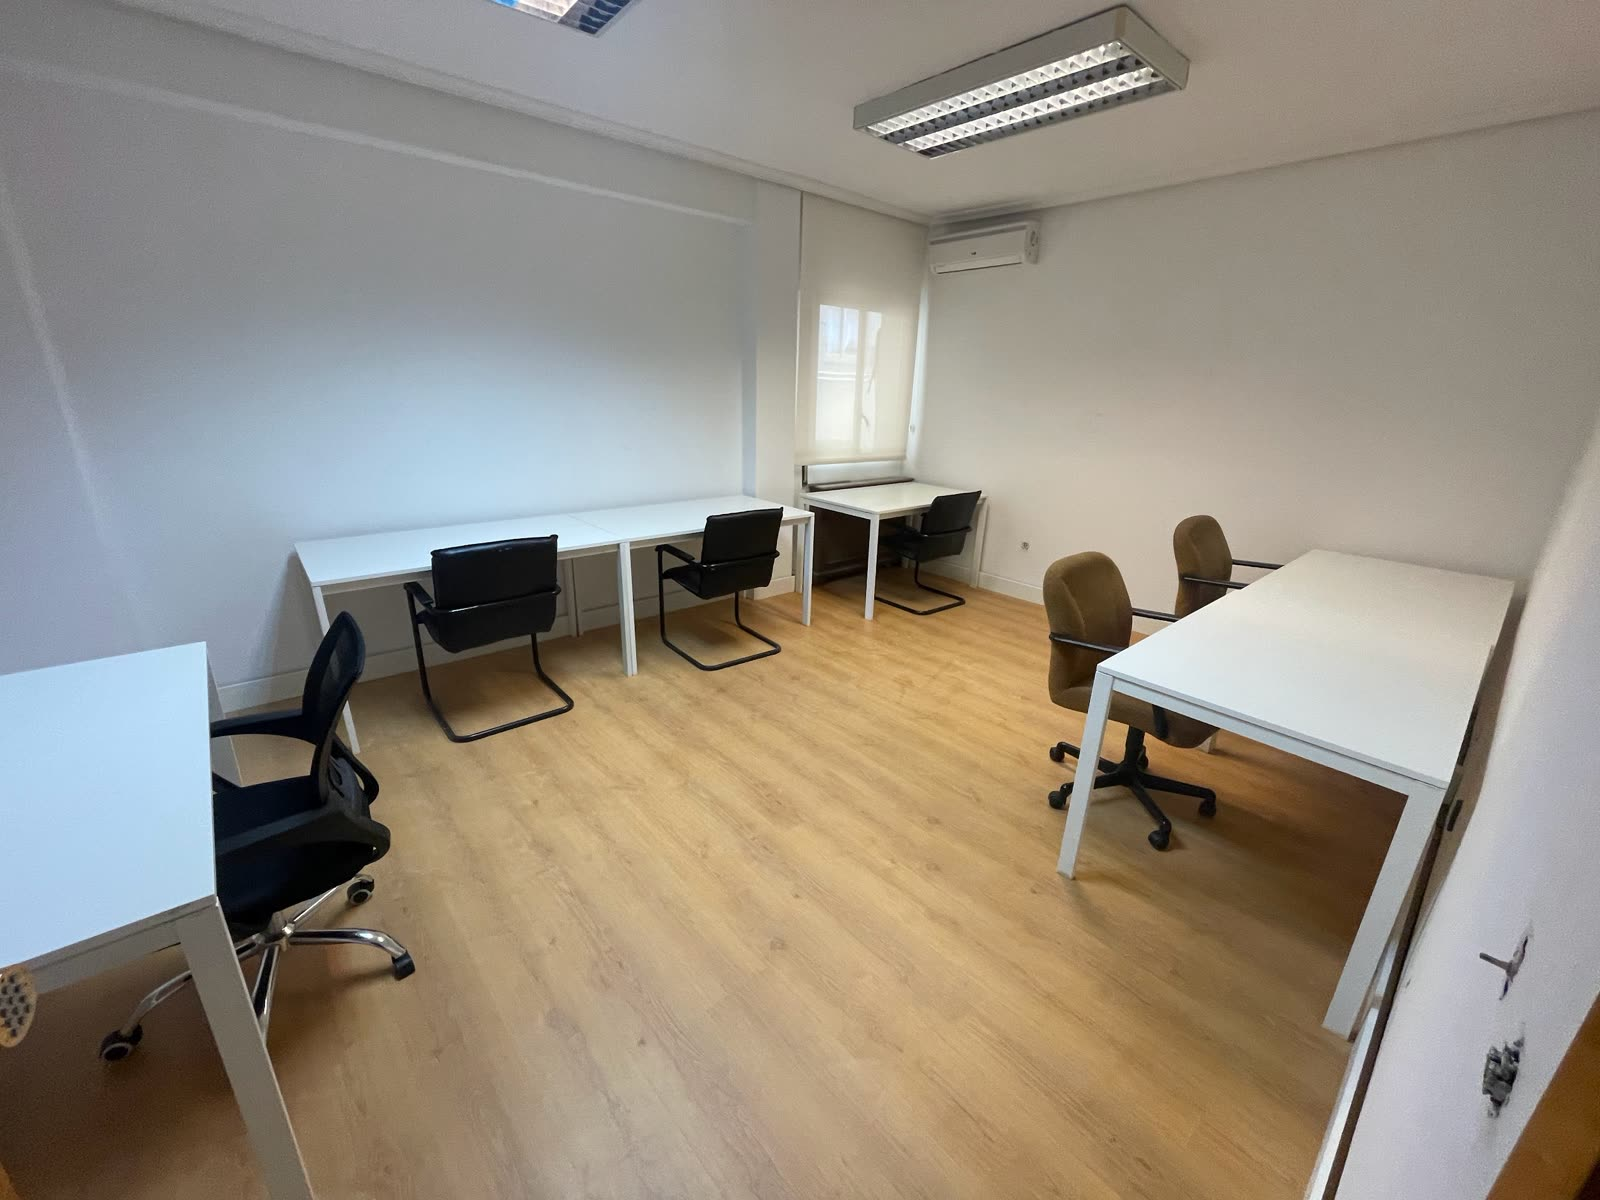
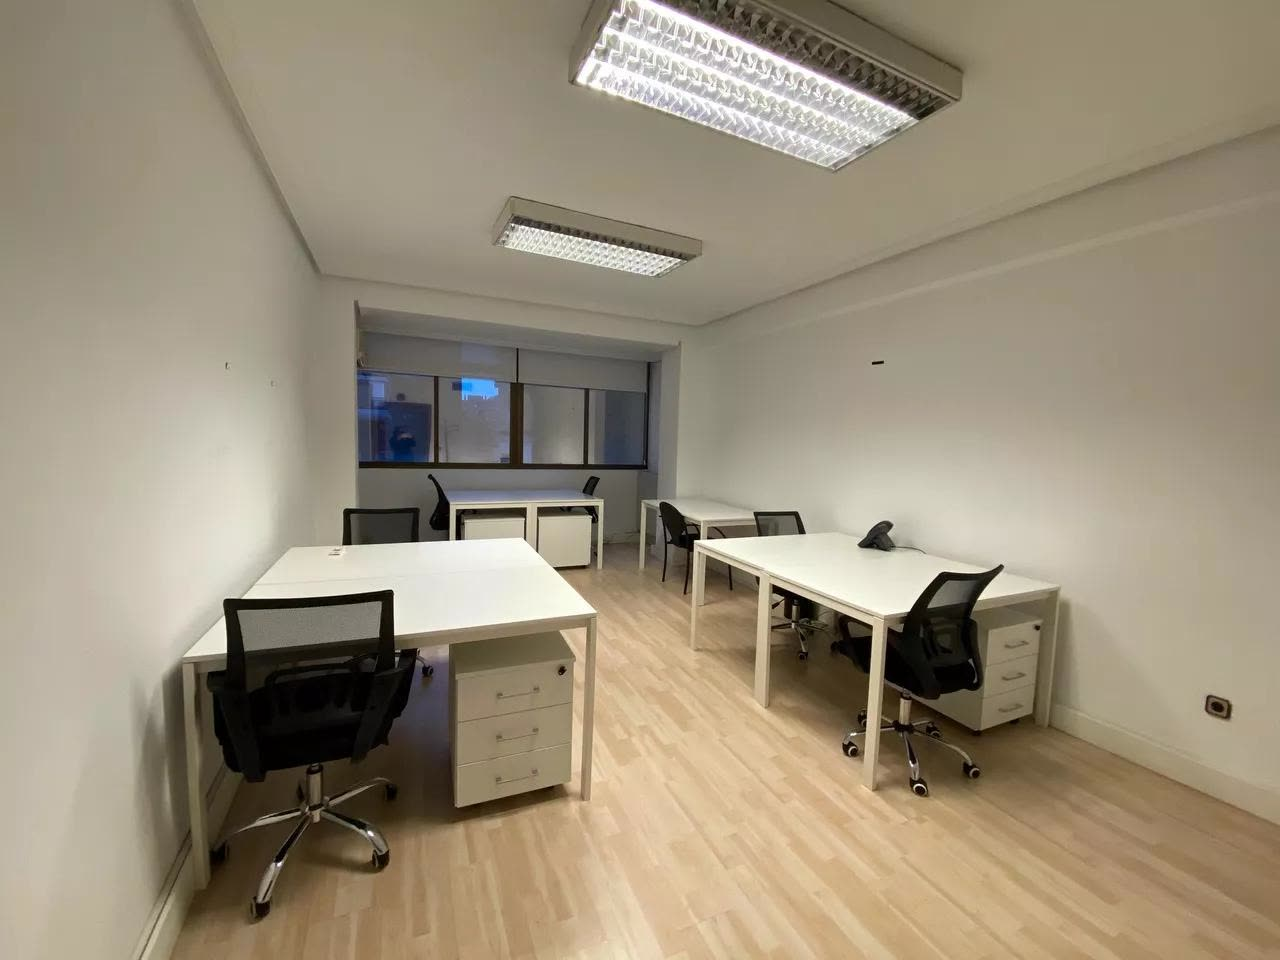
Pone las fotos de Capitan Haya, Sanse y Sanchinarro
Tres imagenes que manda el cliente, optimizadas a la misma spec que las 13
anteriores: maximo 1600 px de ancho, JPG q80, por debajo de 250 KB. Se aplican
en las dos versiones del sitio, espanol e ingles, con alt propio en cada idioma
y conservando los onerror.

Capitan Haya estrena un despacho de cuatro puestos y sustituye a la foto que
tenia, que era la zona de descanso con el putting green y no lucia como
portada. S.S. de los Reyes y Sanchinarro dejan de usar banco de imagenes.

El reparto entre Sanse y Capitan Haya no venia dado y las pistas se
contradecian: el orden del mensaje decia una cosa y el tipo de edificio sugeria
la contraria. Se siguio el orden del mensaje, y los nombres que el cliente puso
despues a los ficheros lo confirman byte a byte.

Sobre Sanchinarro, y queda dicho: el fichero se llama
Gemini_Generated_Image_ws4x6qws4x6qws4x.jfif y es una imagen generada con IA, no
una fotografia. Al ampliarla, el autobus lleva "EAИT" donde deberia poner EMT,
el letrero pone "Plaza Caslilla" en vez de Plaza Castilla y la matricula es
ilegible. Se advirtio antes de publicar, recomendando no hacerlo: no muestra el
centro ni ningun sitio real, reproduce deformado el logotipo de una empresa
publica, y es lo unico en toda la web que no es real cuando se habian
descartado una postal de Salamanca y Street View por criterios mas estrictos.
El cliente pidio publicarla igualmente. Queda anotada en FOTOS-PENDIENTES.md
para sustituirla en cuanto haya una foto de verdad.
[…]

diff --git a/ubicaciones.html b/ubicaciones.html
@@ -2131,7 +2131,7 @@
       <div class="madrid-card rv d2">
         <div class="madrid-card-img">
           <img loading="lazy" decoding="async" src="assets/img/centros/centro-madrid-capitan-haya.jpg"
-               alt="Despacho equipado del centro de OficinasYA! en Capitán Haya, Madrid"
+               alt="Despacho de cuatro puestos del centro de OficinasYA! en Capitán Haya, Madrid"
                onerror="this.onerror=null;this.style.display='none';this.parentElement.style.background='linear-gradient(135deg,#1a1a2e,#16213e)'" />
           <div class="madrid-card-img-gradient"></div>
           <div class="madrid-card-badge">Torres Azca</div>
@@ -2205,8 +2205,8 @@
       <!-- SSdelosReyes -->
       <div class="madrid-card rv d3">
         <div class="madrid-card-img">
-          <img loading="lazy" decoding="async" src="https://images.unsplash.com/photo-1692797960717-1738a7a872c8?auto=format&fit=crop&w=800&q=85"
-               alt="Edificio de oficinas, San Sebastián de los Reyes"
+          <img loading="lazy" decoding="async" src="assets/img/centros/centro-madrid-sanse.jpg"
+               alt="Vestíbulo del centro de OficinasYA! en San Sebastián de los Reyes"
                onerror="this.onerror=null;this.style.display='none';this.parentElement.style.background='linear-gradient(135deg,#1a1a1a,#3d3d3d)'" />
           <div class="madrid-card-img-gradient"></div>
           <div class="madrid-card-badge">A 20 min de Madrid</div>
@@ -2230,7 +2230,7 @@
       <!-- Sanchinarro -->
       <div class="madrid-card rv d1">
         <div class="madrid-card-img">
-          <img loading="lazy" decoding="async" src="https://images.unsplash.com/photo-1497366216548-37526070297c?auto=format&fit=crop&w=800&q=85"
+          <img loading="lazy" decoding="async" src="assets/img/centros/centro-madrid-sanchinarro.jpg"
                alt="Centro de negocios de OficinasYA! en Sanchinarro, Madrid"
                onerror="this.onerror=null;this.style.display='none';this.parentElement.style.background='linear-gradient(135deg,#232526,#414345)'" />
           <div class="madrid-card-img-gradient"></div>

diff --git a/en/locations.html b/en/locations.html
@@ -2131,7 +2131,7 @@
       <div class="madrid-card rv d2">
         <div class="madrid-card-img">
           <img loading="lazy" decoding="async" src="../assets/img/centros/centro-madrid-capitan-haya.jpg"
-               alt="Equipped office at the OficinasYA! Capitán Haya centre, Madrid"
+               alt="Four-desk office at the OficinasYA! Capitán Haya centre, Madrid"
                onerror="this.onerror=null;this.style.display='none';this.parentElement.style.background='linear-gradient(135deg,#1a1a2e,#16213e)'" />
           <div class="madrid-card-img-gradient"></div>
           <div class="madrid-card-badge">Torres Azca</div>
@@ -2205,8 +2205,8 @@
       <!-- SSdelosReyes -->
       <div class="madrid-card rv d3">
         <div class="madrid-card-img">
-          <img loading="lazy" decoding="async" src="https://images.unsplash.com/photo-1692797960717-1738a7a872c8?auto=format&fit=crop&w=800&q=85"
-               alt="Office building, San Sebastián de los Reyes"
+          <img loading="lazy" decoding="async" src="../assets/img/centros/centro-madrid-sanse.jpg"
+               alt="Reception lobby at the OficinasYA! San Sebastián de los Reyes centre"
                onerror="this.onerror=null;this.style.display='none';this.parentElement.style.background='linear-gradient(135deg,#1a1a1a,#3d3d3d)'" />
           <div class="madrid-card-img-gradient"></div>
           <div class="madrid-card-badge">20 min from Madrid</div>
@@ -2230,7 +2230,7 @@
       <!-- Sanchinarro -->
       <div class="madrid-card rv d1">
         <div class="madrid-card-img">
-          <img loading="lazy" decoding="async" src="https://images.unsplash.com/photo-1497366216548-37526070297c?auto=format&fit=crop&w=800&q=85"
+          <img loading="lazy" decoding="async" src="../assets/img/centros/centro-madrid-sanchinarro.jpg"
                alt="OficinasYA! business centre in Sanchinarro, Madrid"
                onerror="this.onerror=null;this.style.display='none';this.parentElement.style.background='linear-gradient(135deg,#232526,#414345)'" />
           <div class="madrid-card-img-gradient"></div>
